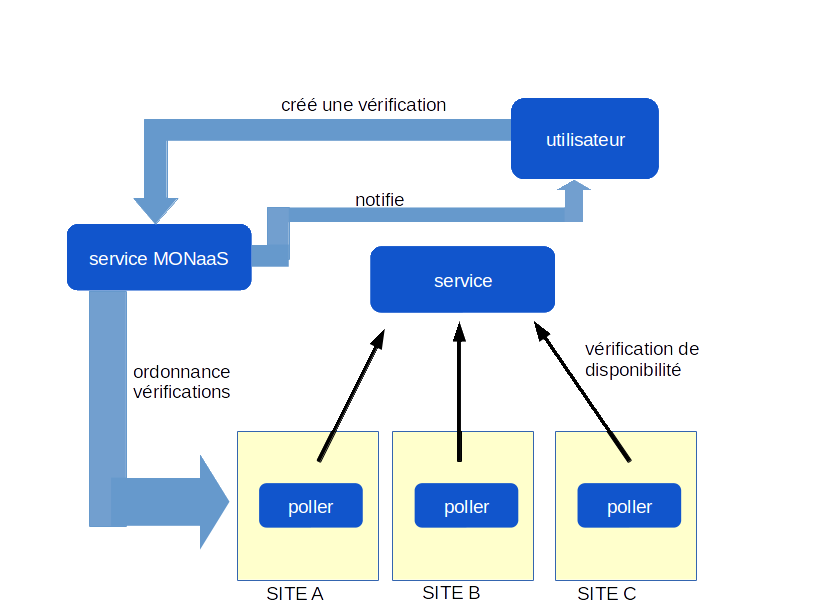
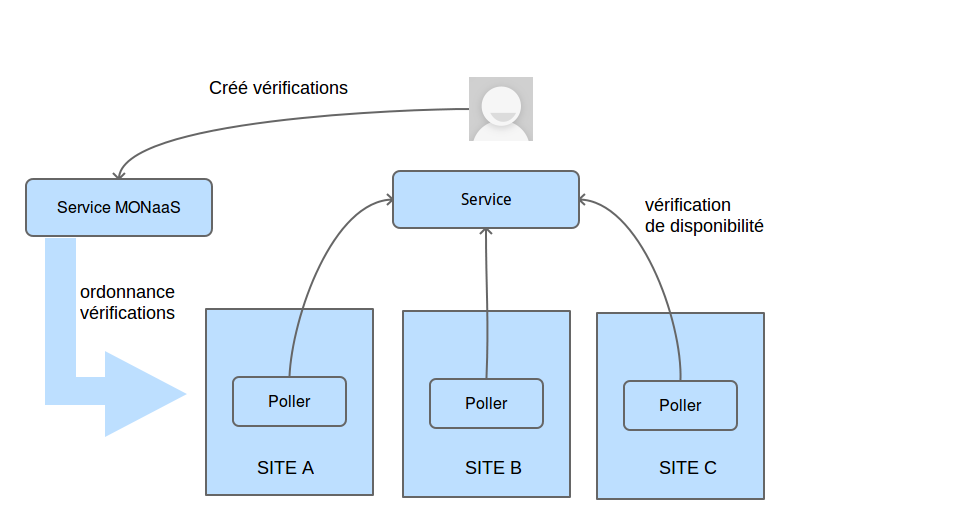
Nouveau schema multisite

diff --git a/source/slides/monitoring_as_a_service/monitoring_as_a_service.rst b/source/slides/monitoring_as_a_service/monitoring_as_a_service.rst
@@ -13,10 +13,10 @@
     .. include:: slides/monitoring_as_a_service/availability.rst
 
 .. revealjs:: Supervision depuis plusieurs sites
-    :title-heading: h4
 
     .. include:: slides/monitoring_as_a_service/multisite.rst
 
-.. revealjs:: Supervision depuis plusieurs sites (suite...)
+.. revealjs:: Supervision depuis plusieurs sites (schéma)
+    :title-heading: h4
 
-    .. include:: slides/monitoring_as_a_service/multisite2.rst
+    .. include:: slides/monitoring_as_a_service/multisite_schema.rst

diff --git a/source/slides/monitoring_as_a_service/multisite.rst b/source/slides/monitoring_as_a_service/multisite.rst
@@ -1,1 +1,9 @@
-.. image:: /_static/images/verification-multi-site.png
+.. rst-class:: fragment
+.. raw:: html
+
+    <ul>
+    <li class="fragment">Expérience utilisateurs depuis plusieurs sites</li>
+    <li class="fragment">Assurer la disponibilité</li>
+    <li class="fragment">Supervision plus complète</li>
+    <li class="fragment">Comment est-ce que les utilisateurs de Montréal vivent la release localisée d'un nouveau module de notre application?</li>
+    </ul>

diff --git a/source/slides/nos_demarches/nos_demarches.rst b/source/slides/nos_demarches/nos_demarches.rst
@@ -12,6 +12,6 @@
     .. raw:: html
 
         <aside class="notes">
-            Reaction de HP
-            Meetings IRC
+            Réaction de HP
+            <br>Meetings IRC
         </aside>

diff --git a/source/slides/monitoring_as_a_service/multisite_schema.rst b/source/slides/monitoring_as_a_service/multisite_schema.rst
@@ -1,0 +1,1 @@
+.. image:: /_static/images/verification-multi-site.png
